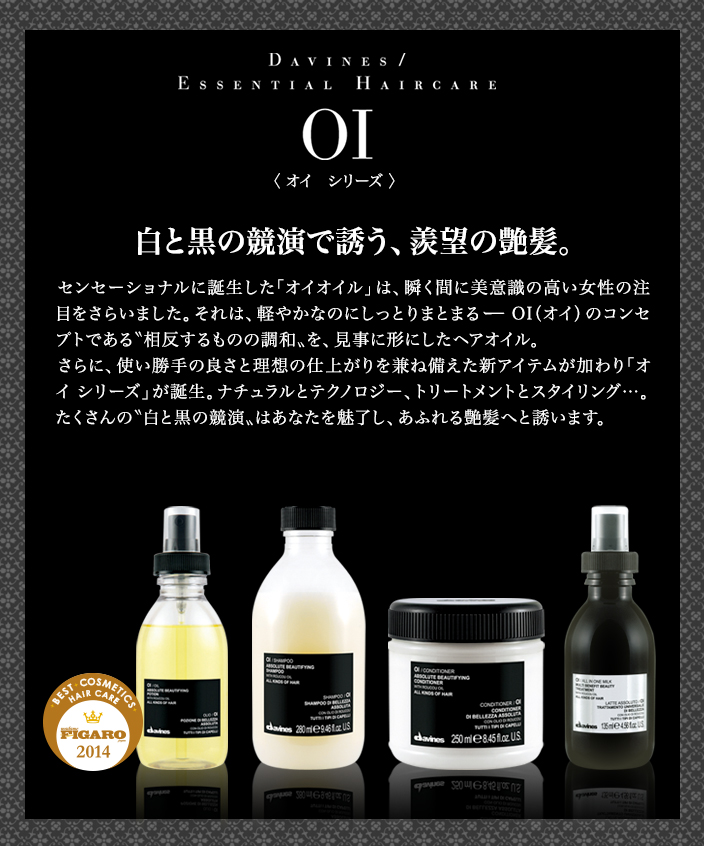
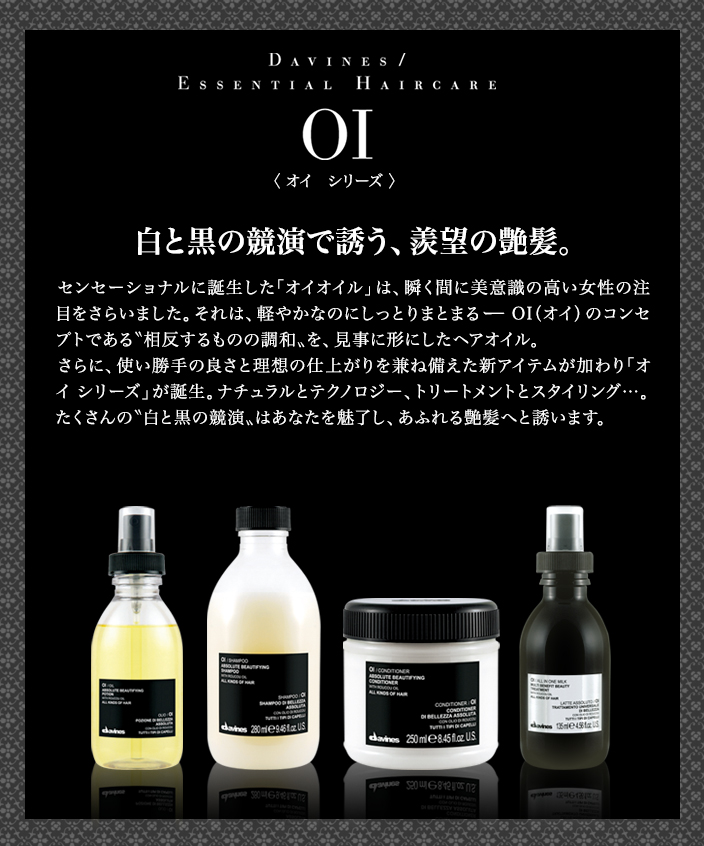
配置

Changed region(s): [[0.0625, 0.5839, 0.9375, 0.9835]]

diff --git a/app/assets/stylesheets/catalog.css.scss b/app/assets/stylesheets/catalog.css.scss
@@ -252,3 +252,50 @@
     }
   }
 }
+
+.oioil-special {
+  position: relative;
+  height: 1780px;
+  margin-bottom: 30px;
+  .image {
+    position: absolute;
+    top: 0px;
+    left: 0px;
+    width: 100%;
+  }
+  .steps {
+    padding-top: 110px;
+    position: absolute;
+    top: 0px;
+    left: 0px;
+    width: 100%;
+    .step {
+      height: 383px;
+      margin-bottom: 30px;
+      padding: 0 15px;
+      .product {
+        padding-top: 333px;
+        width: 308px;
+        float: left;
+        text-align: center;
+        a {
+          display: inline-block;
+          margin: 0 10px;
+        }
+      }
+      .review {
+        padding-top: 333px;
+        width: 330px;
+        float: left;
+        text-align: right;
+      }
+      &.step4 {
+        height: 393px;
+        .product,
+        .review {
+          padding-top: 347px;
+        }
+      }
+    }
+  }
+}
